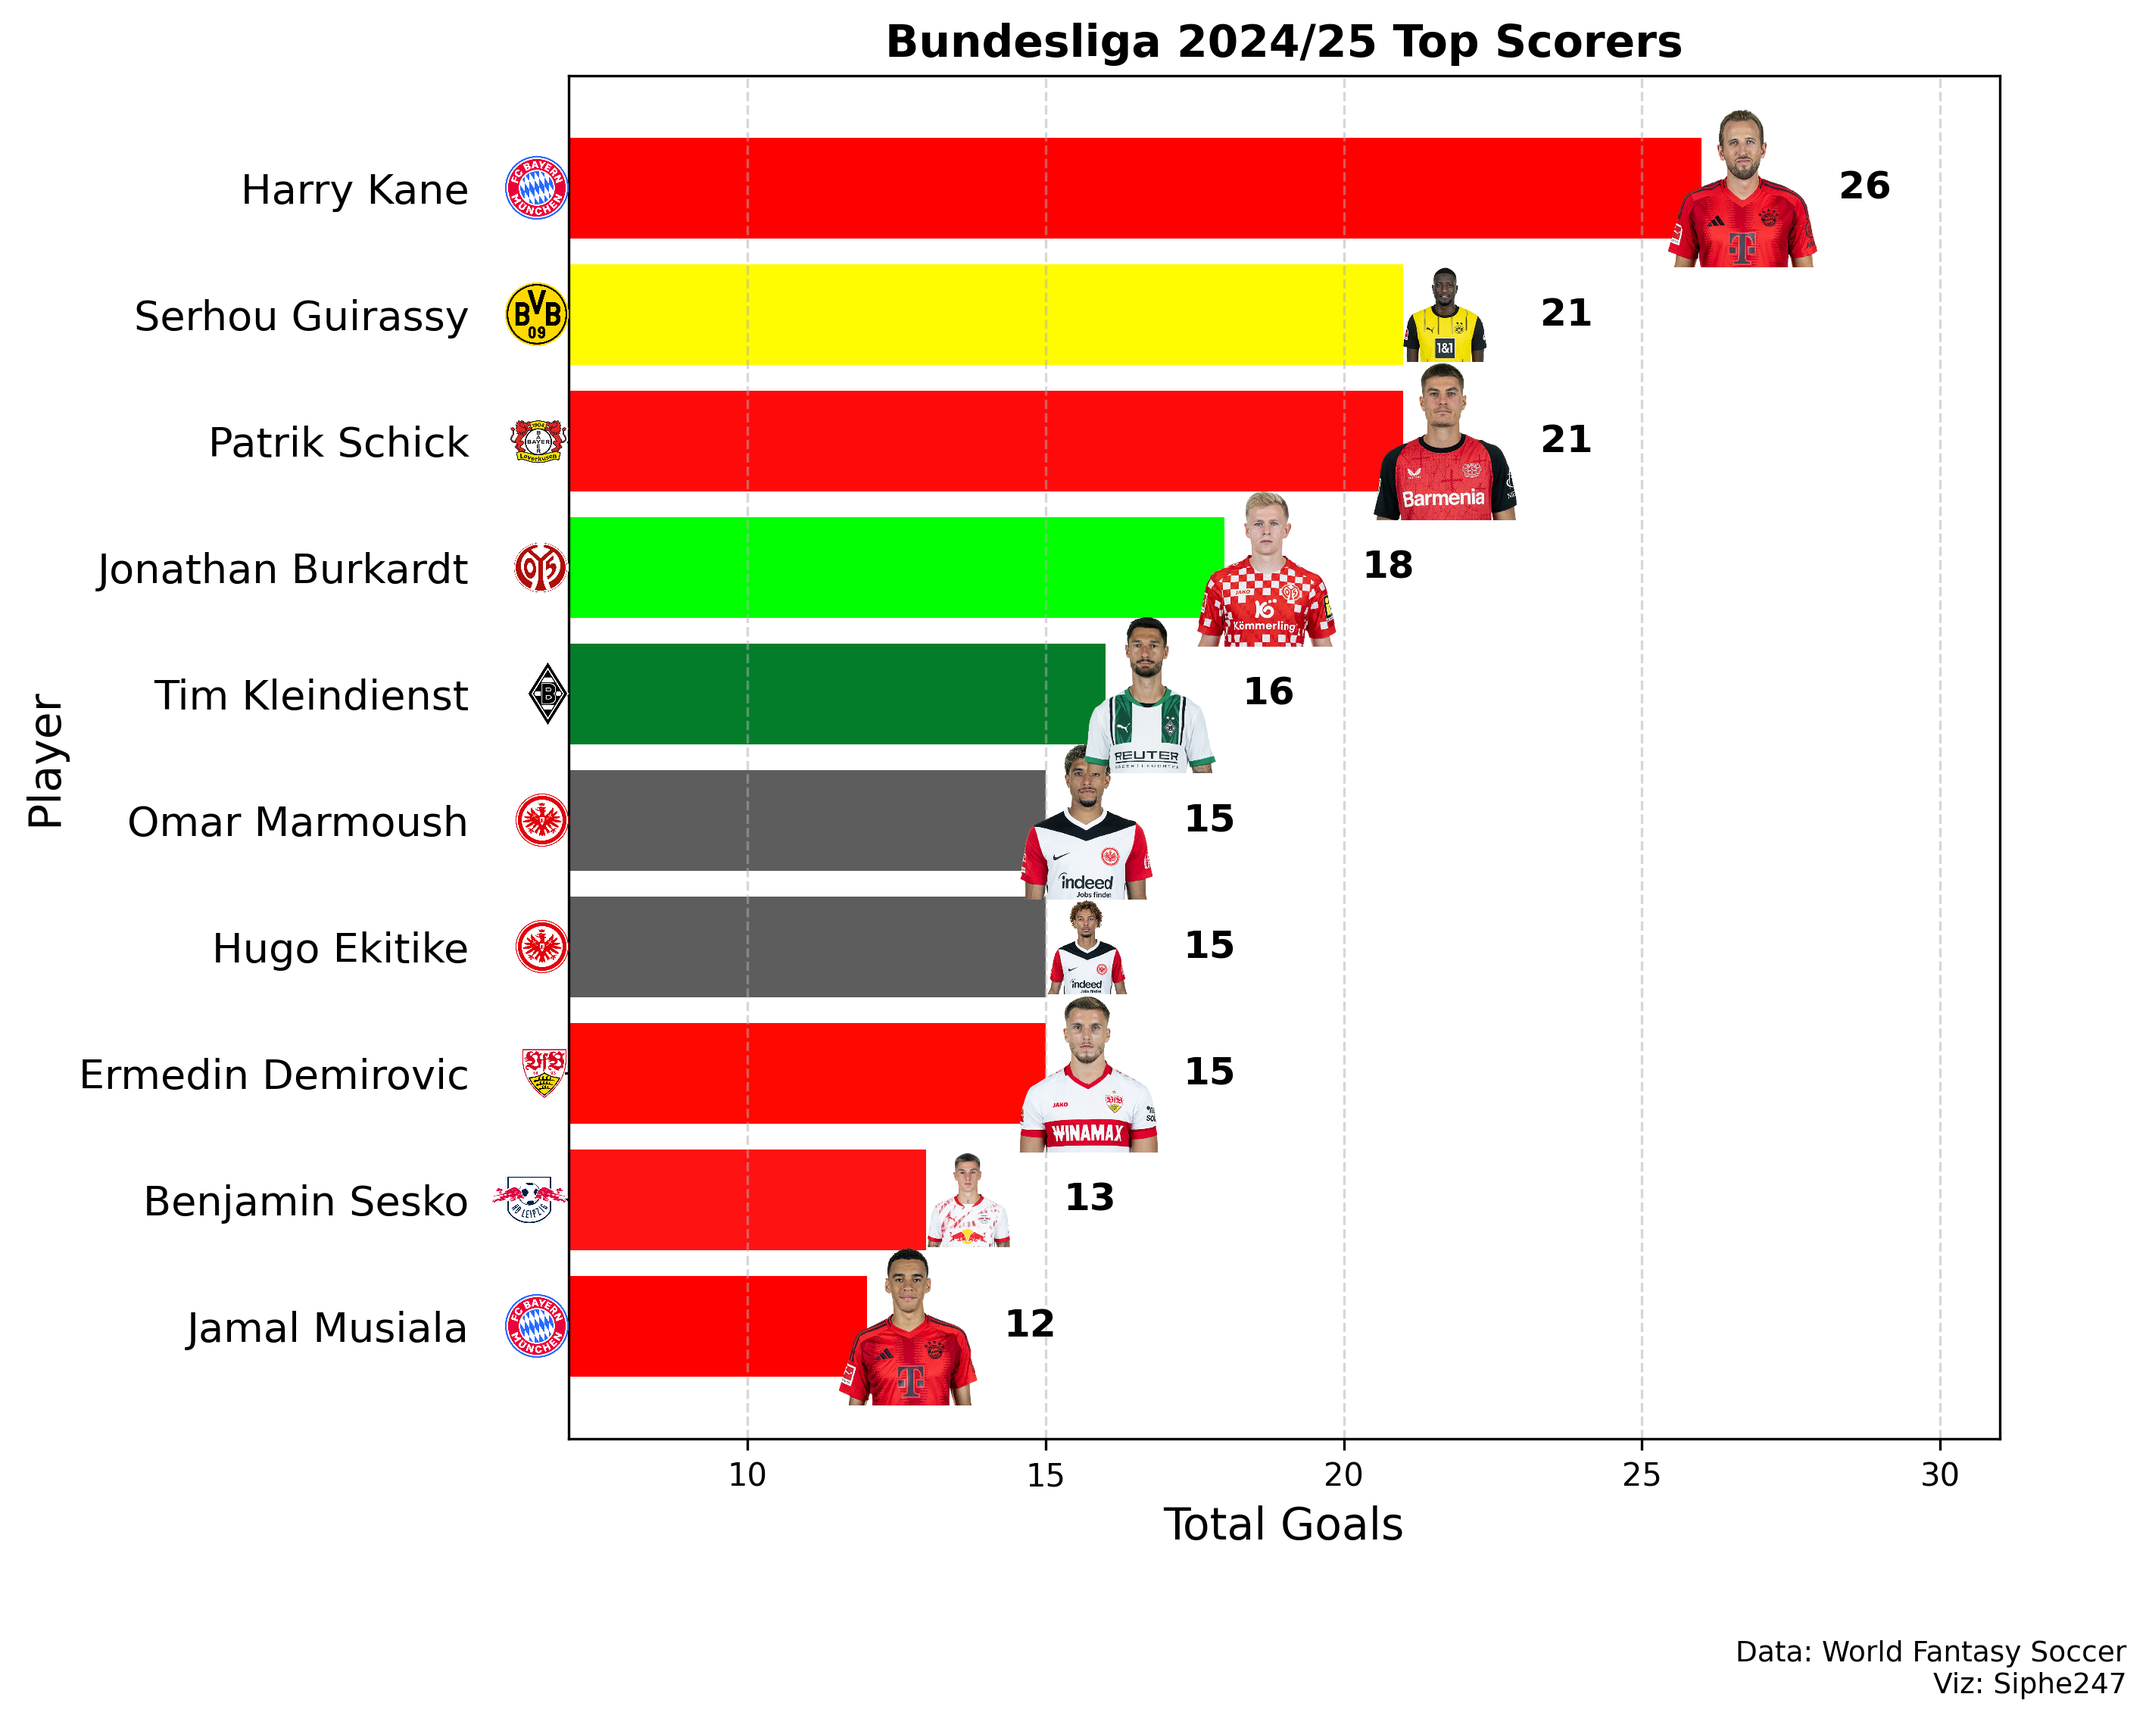
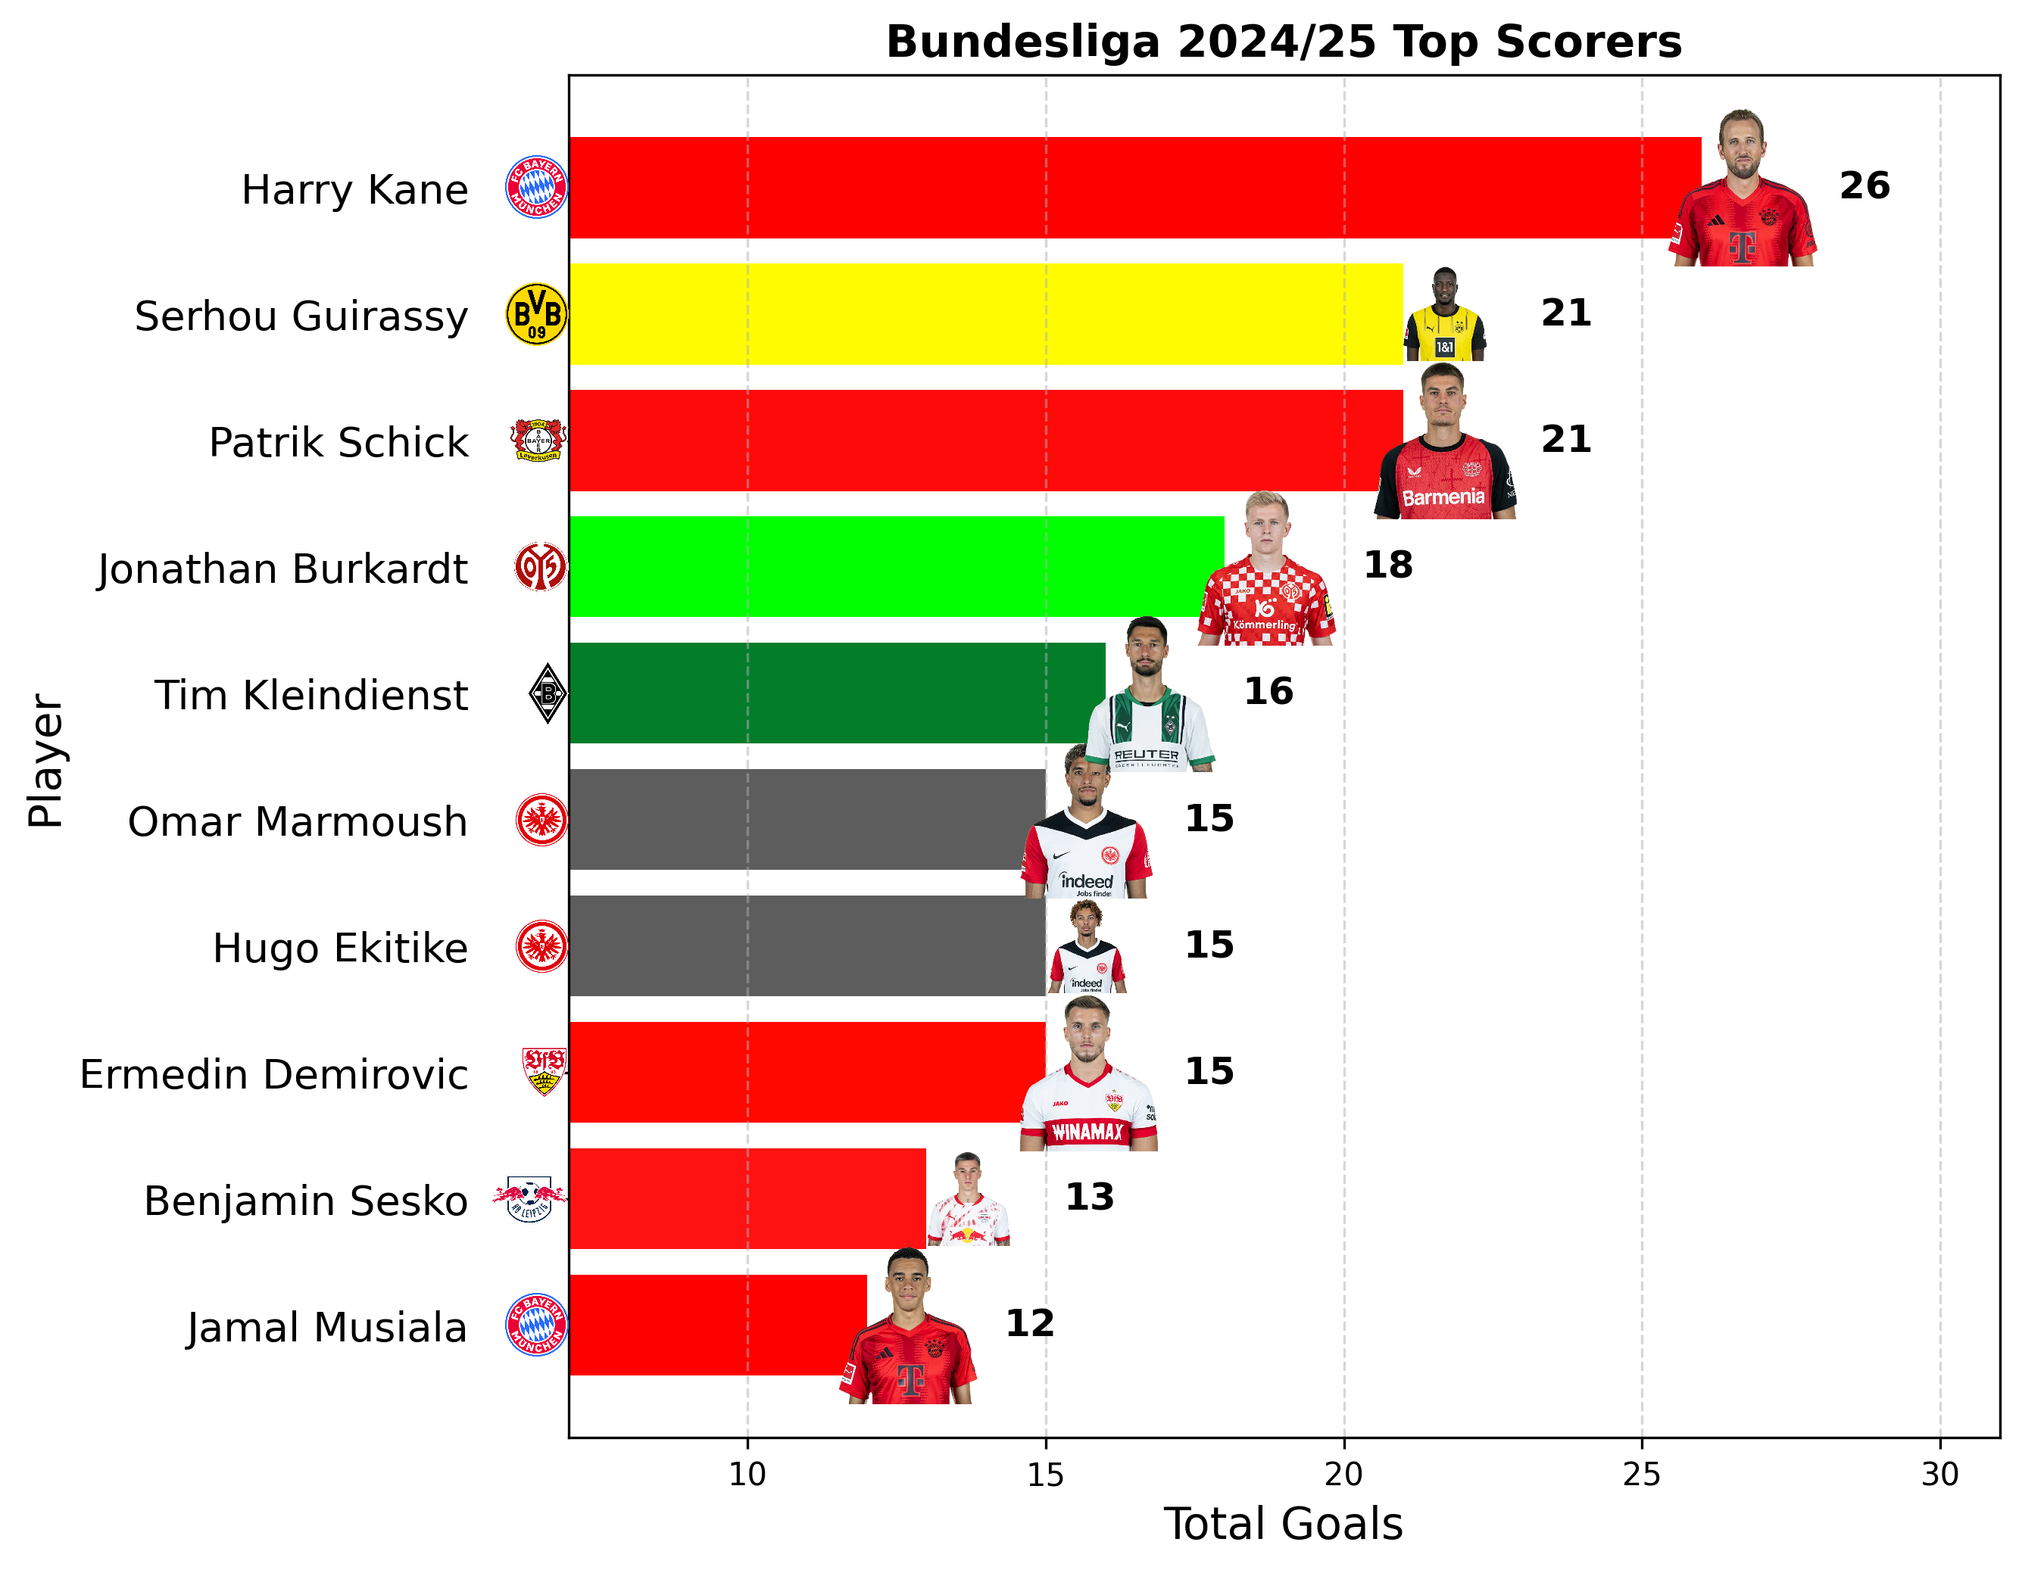
Add files via upload

diff --git a/Bundesliga/Bundesliga 2024-25 top scorers chart.py b/Bundesliga/Bundesliga 2024-25 top scorers chart.py
@@ -112,16 +112,6 @@ ax.tick_params(axis='y', which='both', direction='out', pad=28)
 ax.grid(axis='x', linestyle='--', alpha=0.5)
 plt.subplots_adjust(left=0.5, right=0.95, top=0.9, bottom=0.15)
 
-#Add credits 
-CREDIT_1="Data: World Fantasy Soccer" 
-CREDIT_2="Viz: Siphe247"
-
-plt.figtext(
-    0.99, 0.01, f"{CREDIT_1}\n{CREDIT_2}", fontsize=9,
-    color="#000000",
-    ha="right"
-)
-
 plt.savefig('/Users/siphuvuyomngxunyeni/Downloads/Football Analytics/Bundesliga 2024-25 Top Scorers.png', dpi=300, bbox_inches='tight')
 plt.tight_layout()
 plt.show()

diff --git a/Bundesliga/Bundesliga 2024-25 animation.py b/Bundesliga/Bundesliga 2024-25 animation.py
@@ -129,16 +129,6 @@ def update(frame):
 # Create animation
 ani = animation.FuncAnimation(fig, update, frames=len(df), interval=500, blit=False)
 
-#Add credits 
-CREDIT_1="Data: World Fantasy Soccer" 
-CREDIT_2="Viz: Siphe247"
-
-plt.figtext(
-    0.99, 0.01, f"{CREDIT_1}\n{CREDIT_2}", fontsize=9,
-    color="#000000",
-    ha="right"
-)
-
 # Save as GIF video
 writer = animation.FFMpegWriter(fps=2, metadata=dict(artist='Me'), bitrate=1800)
 ani.save('/Users/siphuvuyomngxunyeni/Downloads/Football Analytics/Bundesliga_2024-25_Top_Scorers.gif',
